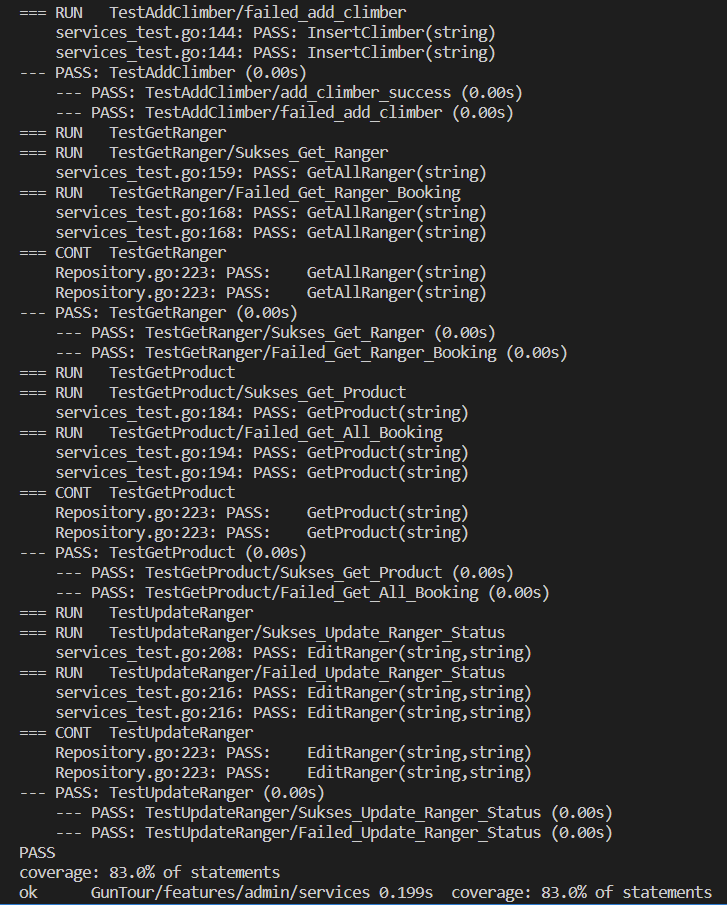
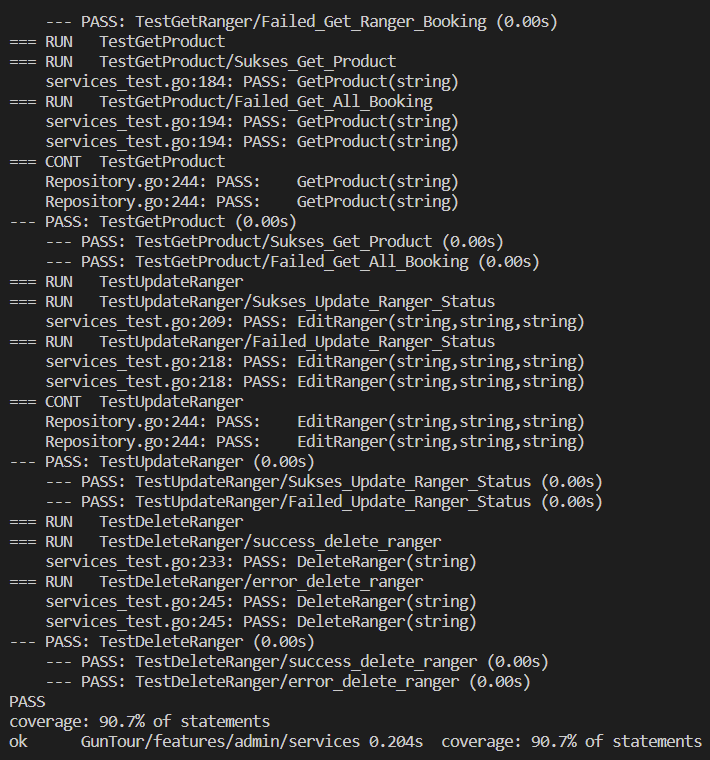
fixing bug and testing with 90.7% coverage on admin features

Changed region(s): [[0.0, 0.0, 1.0, 1.0], [0.7127, 0.0, 0.7746, 0.0605]]

diff --git a/features/admin/delivery/handler.go b/features/admin/delivery/handler.go
@@ -24,7 +24,7 @@ type adminHandler struct {
 func New(e *echo.Echo, srv domain.Services) {
 	handler := adminHandler{srv: srv}
 	e.GET("/admin/pendaki", handler.GetPendaki(), middleware.JWT([]byte(os.Getenv("JWT_SECRET"))))                   // GET LIST PENDAKI
-	e.POST("/admin/pendaki", handler.AddClimber(), middleware.JWT([]byte(os.Getenv("JWT_SECRET"))))                  // GET LIST PENDAKI
+	e.POST("/admin/pendaki", handler.AddClimber(), middleware.JWT([]byte(os.Getenv("JWT_SECRET"))))                  // ADD TOTAL CLIMBER
 	e.GET("/admin/product", handler.GetProduct(), middleware.JWT([]byte(os.Getenv("JWT_SECRET"))))                   // GET LIST PRODUCT
 	e.POST("/admin/product", handler.AddProduct(), middleware.JWT([]byte(os.Getenv("JWT_SECRET"))))                  // ADD NEW PRODUCT
 	e.PUT("/admin/product/:id_product", handler.EditProduct(), middleware.JWT([]byte(os.Getenv("JWT_SECRET"))))      // UPDATE DATA PRODUCT
@@ -34,6 +34,7 @@ func New(e *echo.Echo, srv domain.Services) {
 	e.DELETE("/admin/ranger/:id_ranger", handler.RemoveRanger(), middleware.JWT([]byte(os.Getenv("JWT_SECRET"))))    // DELETE RANGER
 }
 
+// GET LIST PENDAKI
 func (ah *adminHandler) GetPendaki() echo.HandlerFunc {
 	return func(c echo.Context) error {
 		_, role := middlewares.ExtractToken(c)
@@ -49,6 +50,7 @@ func (ah *adminHandler) GetPendaki() echo.HandlerFunc {
 	}
 }
 
+// ADD TOTAL CLIMBER
 func (ah *adminHandler) AddClimber() echo.HandlerFunc {
 	return func(c echo.Context) error {
 		_, role := middlewares.ExtractToken(c)
@@ -77,6 +79,7 @@ func (ah *adminHandler) AddClimber() echo.HandlerFunc {
 	}
 }
 
+// GET LIST PRODUCT
 func (ah *adminHandler) GetProduct() echo.HandlerFunc {
 	return func(c echo.Context) error {
 		_, role := middlewares.ExtractToken(c)
@@ -100,6 +103,7 @@ func (ah *adminHandler) GetProduct() echo.HandlerFunc {
 	}
 }
 
+// ADD NEW PRODUCT
 func (ah *adminHandler) AddProduct() echo.HandlerFunc {
 	return func(c echo.Context) error {
 		_, role := middlewares.ExtractToken(c)
@@ -133,6 +137,7 @@ func (ah *adminHandler) AddProduct() echo.HandlerFunc {
 	}
 }
 
+// EDIT DATA PRODUCT
 func (ah *adminHandler) EditProduct() echo.HandlerFunc {
 	return func(c echo.Context) error {
 		var input UpdateFormat
@@ -166,6 +171,7 @@ func (ah *adminHandler) EditProduct() echo.HandlerFunc {
 	}
 }
 
+// REMOVE PRODUCT
 func (ah *adminHandler) RemoveProduct() echo.HandlerFunc {
 	return func(c echo.Context) error {
 		_, role := middlewares.ExtractToken(c)
@@ -185,6 +191,7 @@ func (ah *adminHandler) RemoveProduct() echo.HandlerFunc {
 	}
 }
 
+// GET RANGER LIST AND RANGER APPLY LIST
 func (ah *adminHandler) ShowAllRanger() echo.HandlerFunc {
 	return func(c echo.Context) error {
 		_, role := middlewares.ExtractToken(c)
@@ -194,6 +201,9 @@ func (ah *adminHandler) ShowAllRanger() echo.HandlerFunc {
 
 		resAccepted, res, err := ah.srv.ShowAllRanger()
 		if err != nil {
+			if strings.Contains(err.Error(), "found") {
+				return c.JSON(http.StatusNotFound, FailResponse("data not found."))
+			}
 			return c.JSON(http.StatusInternalServerError, FailResponse("there is a problem on server"))
 		}
 
@@ -201,8 +211,10 @@ func (ah *adminHandler) ShowAllRanger() echo.HandlerFunc {
 	}
 }
 
+// UPDATE RANGER STATUS
 func (ah *adminHandler) UpdateRanger() echo.HandlerFunc {
 	return func(c echo.Context) error {
+		var input RangerFormat
 		_, role := middlewares.ExtractToken(c)
 		if role != "admin" {
 			return c.JSON(http.StatusUnauthorized, FailResponse("jangan macam-macam, anda bukan admin"))
@@ -213,17 +225,13 @@ func (ah *adminHandler) UpdateRanger() echo.HandlerFunc {
 			return c.JSON(http.StatusBadRequest, FailResponse("page must integer"))
 		}
 
-		var input RangerFormat
-
 		input.ID = uint(rangerId)
-
 		if err := c.Bind(&input); err != nil {
 			return c.JSON(http.StatusBadRequest, FailResponse("cannot bind update data"))
 		}
 
 		validApply := input.StatusApply == "accepted" || input.StatusApply == "rejected"
 		validStatus := input.Status == "off" || input.Status == "duty" || input.Status == "available"
-
 		if input.Phone == "" {
 			if !validApply && !validStatus {
 				return c.JSON(http.StatusBadRequest, FailResponse("an invalid client request."))
@@ -249,6 +257,7 @@ func (ah *adminHandler) UpdateRanger() echo.HandlerFunc {
 	}
 }
 
+// REMOVE RANGER
 func (ah *adminHandler) RemoveRanger() echo.HandlerFunc {
 	return func(c echo.Context) error {
 		_, role := middlewares.ExtractToken(c)

diff --git a/features/admin/services/services_test.go b/features/admin/services/services_test.go
@@ -200,21 +200,48 @@ func TestUpdateRanger(t *testing.T) {
 	returnRespon := domain.RangerCore{ID: uint(1), UserID: uint(1), StatusApply: "accepted"}
 	returnRespon2 := domain.UserCore{Phone: returnRespon.User.Phone}
 	t.Run("Sukses Update Ranger Status", func(t *testing.T) {
-		repo.On("EditRanger", mock.Anything, mock.Anything).Return(returnRespon2, nil).Once()
+		repo.On("EditRanger", mock.Anything, mock.Anything, mock.Anything).Return(returnRespon, returnRespon2, nil).Once()
 		srv := New(repo)
 		res, resU, err := srv.UpdateRanger(returnRespon, returnRespon2, 1)
 		assert.Nil(t, err)
 		assert.NotEmpty(t, res)
-		assert.NotEmpty(t, resU)
+		assert.Equal(t, resU, domain.UserCore{})
 		repo.AssertExpectations(t)
 	})
 	t.Run("Failed Update Ranger Status", func(t *testing.T) {
-		repo.On("EditRanger", mock.Anything, mock.Anything).Return(domain.RangerCore{}, errors.New("no data")).Once()
+		repo.On("EditRanger", mock.Anything, mock.Anything, mock.Anything).Return(domain.RangerCore{}, domain.UserCore{}, errors.New("no data")).Once()
 		srv := New(repo)
 		res, resU, err := srv.UpdateRanger(domain.RangerCore{}, domain.UserCore{}, 1)
 		assert.NotNil(t, err)
 		assert.Empty(t, res)
 		assert.Empty(t, resU)
+		repo.AssertExpectations(t)
+	})
+}
+
+func TestDeleteRanger(t *testing.T) {
+	repo := new(mocks.Repository)
+
+	t.Run("success delete ranger", func(t *testing.T) {
+
+		repo.On("DeleteRanger", mock.Anything).Return(nil).Once()
+
+		useCase := New(repo)
+
+		err := useCase.RemoveRanger(1)
+		assert.Nil(t, err)
+		repo.AssertExpectations(t)
+	})
+
+	t.Run("error delete ranger", func(t *testing.T) {
+
+		repo.On("DeleteRanger", mock.Anything).Return(errors.New("error")).Once()
+
+		useCase := New(repo)
+
+		err := useCase.RemoveRanger(0)
+		assert.Error(t, errors.New("error"))
+		assert.Equal(t, err, err)
 		repo.AssertExpectations(t)
 	})
 }

diff --git a/features/admin/services/services.go b/features/admin/services/services.go
@@ -5,7 +5,6 @@ import (
 	"GunTour/utils/helper"
 	"errors"
 	"mime/multipart"
-	"strings"
 )
 
 type adminService struct {
@@ -40,10 +39,7 @@ func (as *adminService) AddClimber(data domain.ClimberCore) (domain.ClimberCore,
 func (as *adminService) GetProduct(page int) ([]domain.ProductCore, int, int, error) {
 	res, pages, totalPage, err := as.qry.GetProduct(page)
 	if err != nil {
-		if strings.Contains(err.Error(), "found") {
-			return []domain.ProductCore{}, 0, 0, errors.New("page not found")
-		}
-		return []domain.ProductCore{}, 0, 0, errors.New("no data")
+		return []domain.ProductCore{}, 0, 0, err
 	}
 
 	return res, pages, totalPage, nil
@@ -89,12 +85,7 @@ func (as *adminService) RemoveProduct(id int) error {
 func (as *adminService) ShowAllRanger() ([]domain.RangerCore, []domain.RangerCore, error) {
 	resAccepted, res, err := as.qry.GetAllRanger()
 	if err != nil {
-		if strings.Contains(err.Error(), "table") {
-			return nil, nil, errors.New("database error")
-		} else if strings.Contains(err.Error(), "found") {
-			return nil, nil, errors.New("no data")
-		}
-		return nil, nil, errors.New("no data")
+		return nil, nil, err
 	}
 
 	return resAccepted, res, nil
